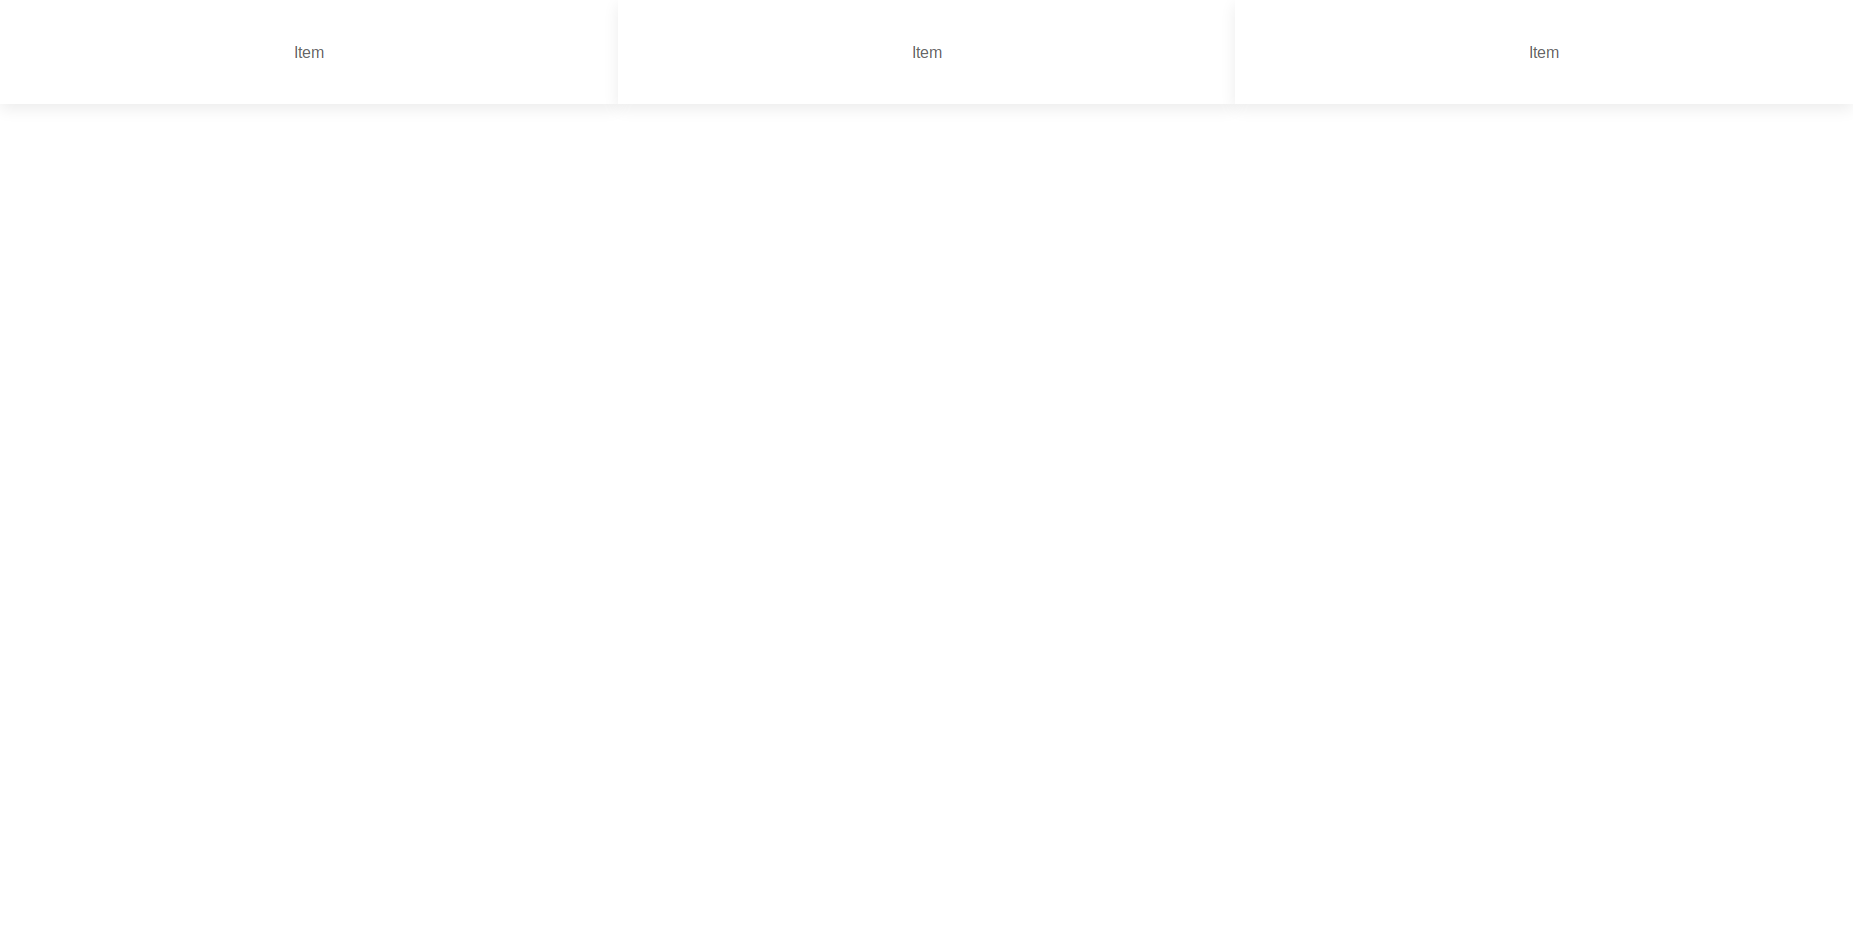
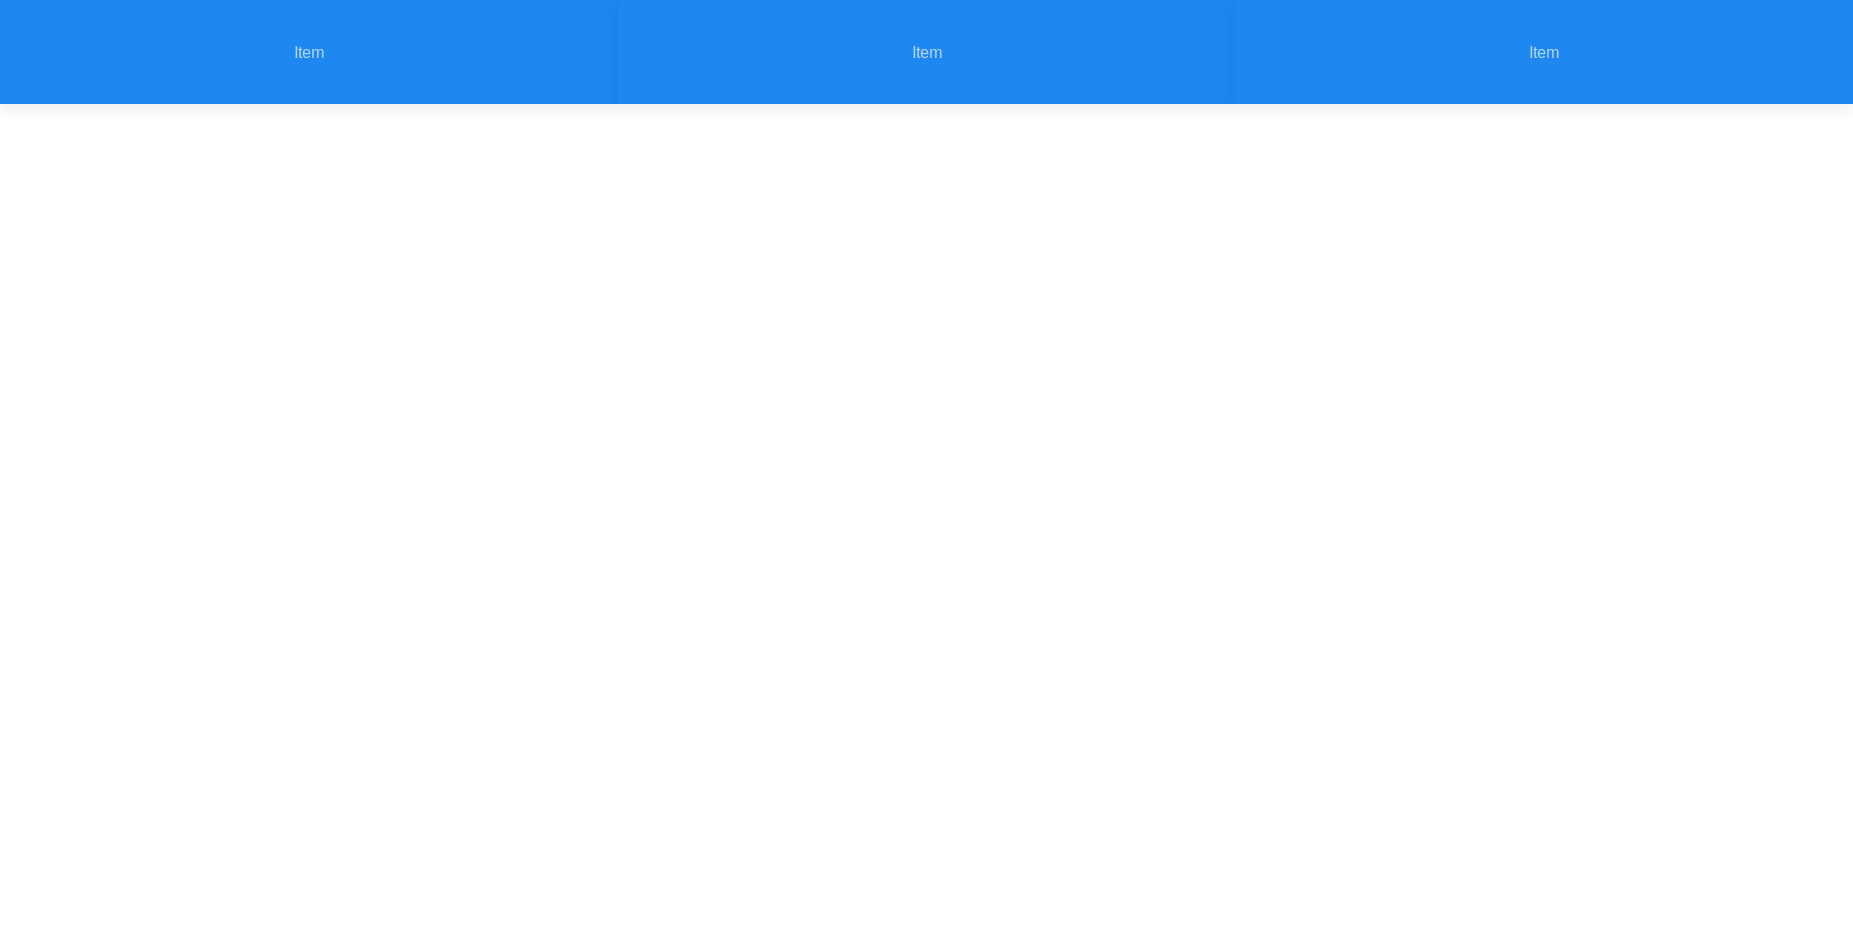
mise a jour

Changed region(s): [[0.0, 0.0, 1.0, 0.121]]

diff --git a/exercice.html b/exercice.html
@@ -15,13 +15,13 @@
 <body>
     <div class="uk-grid-collapse uk-child-width-expand@s uk-text-center" uk-grid>
         <div>
-            <div class="uk-card uk-card-default uk-card-body">Item</div>
+            <div class="uk-card uk-card-primary uk-card-body">Item</div>
         </div>
         <div>
-            <div class="uk-card uk-card-default uk-card-body">Item</div>
+            <div class="uk-card uk-card-primary uk-card-body">Item</div>
         </div>
         <div>
-            <div class="uk-card uk-card-default uk-card-body">Item</div>
+            <div class="uk-card uk-card-primary uk-card-body">Item</div>
         </div>
     </div>
 </body>
